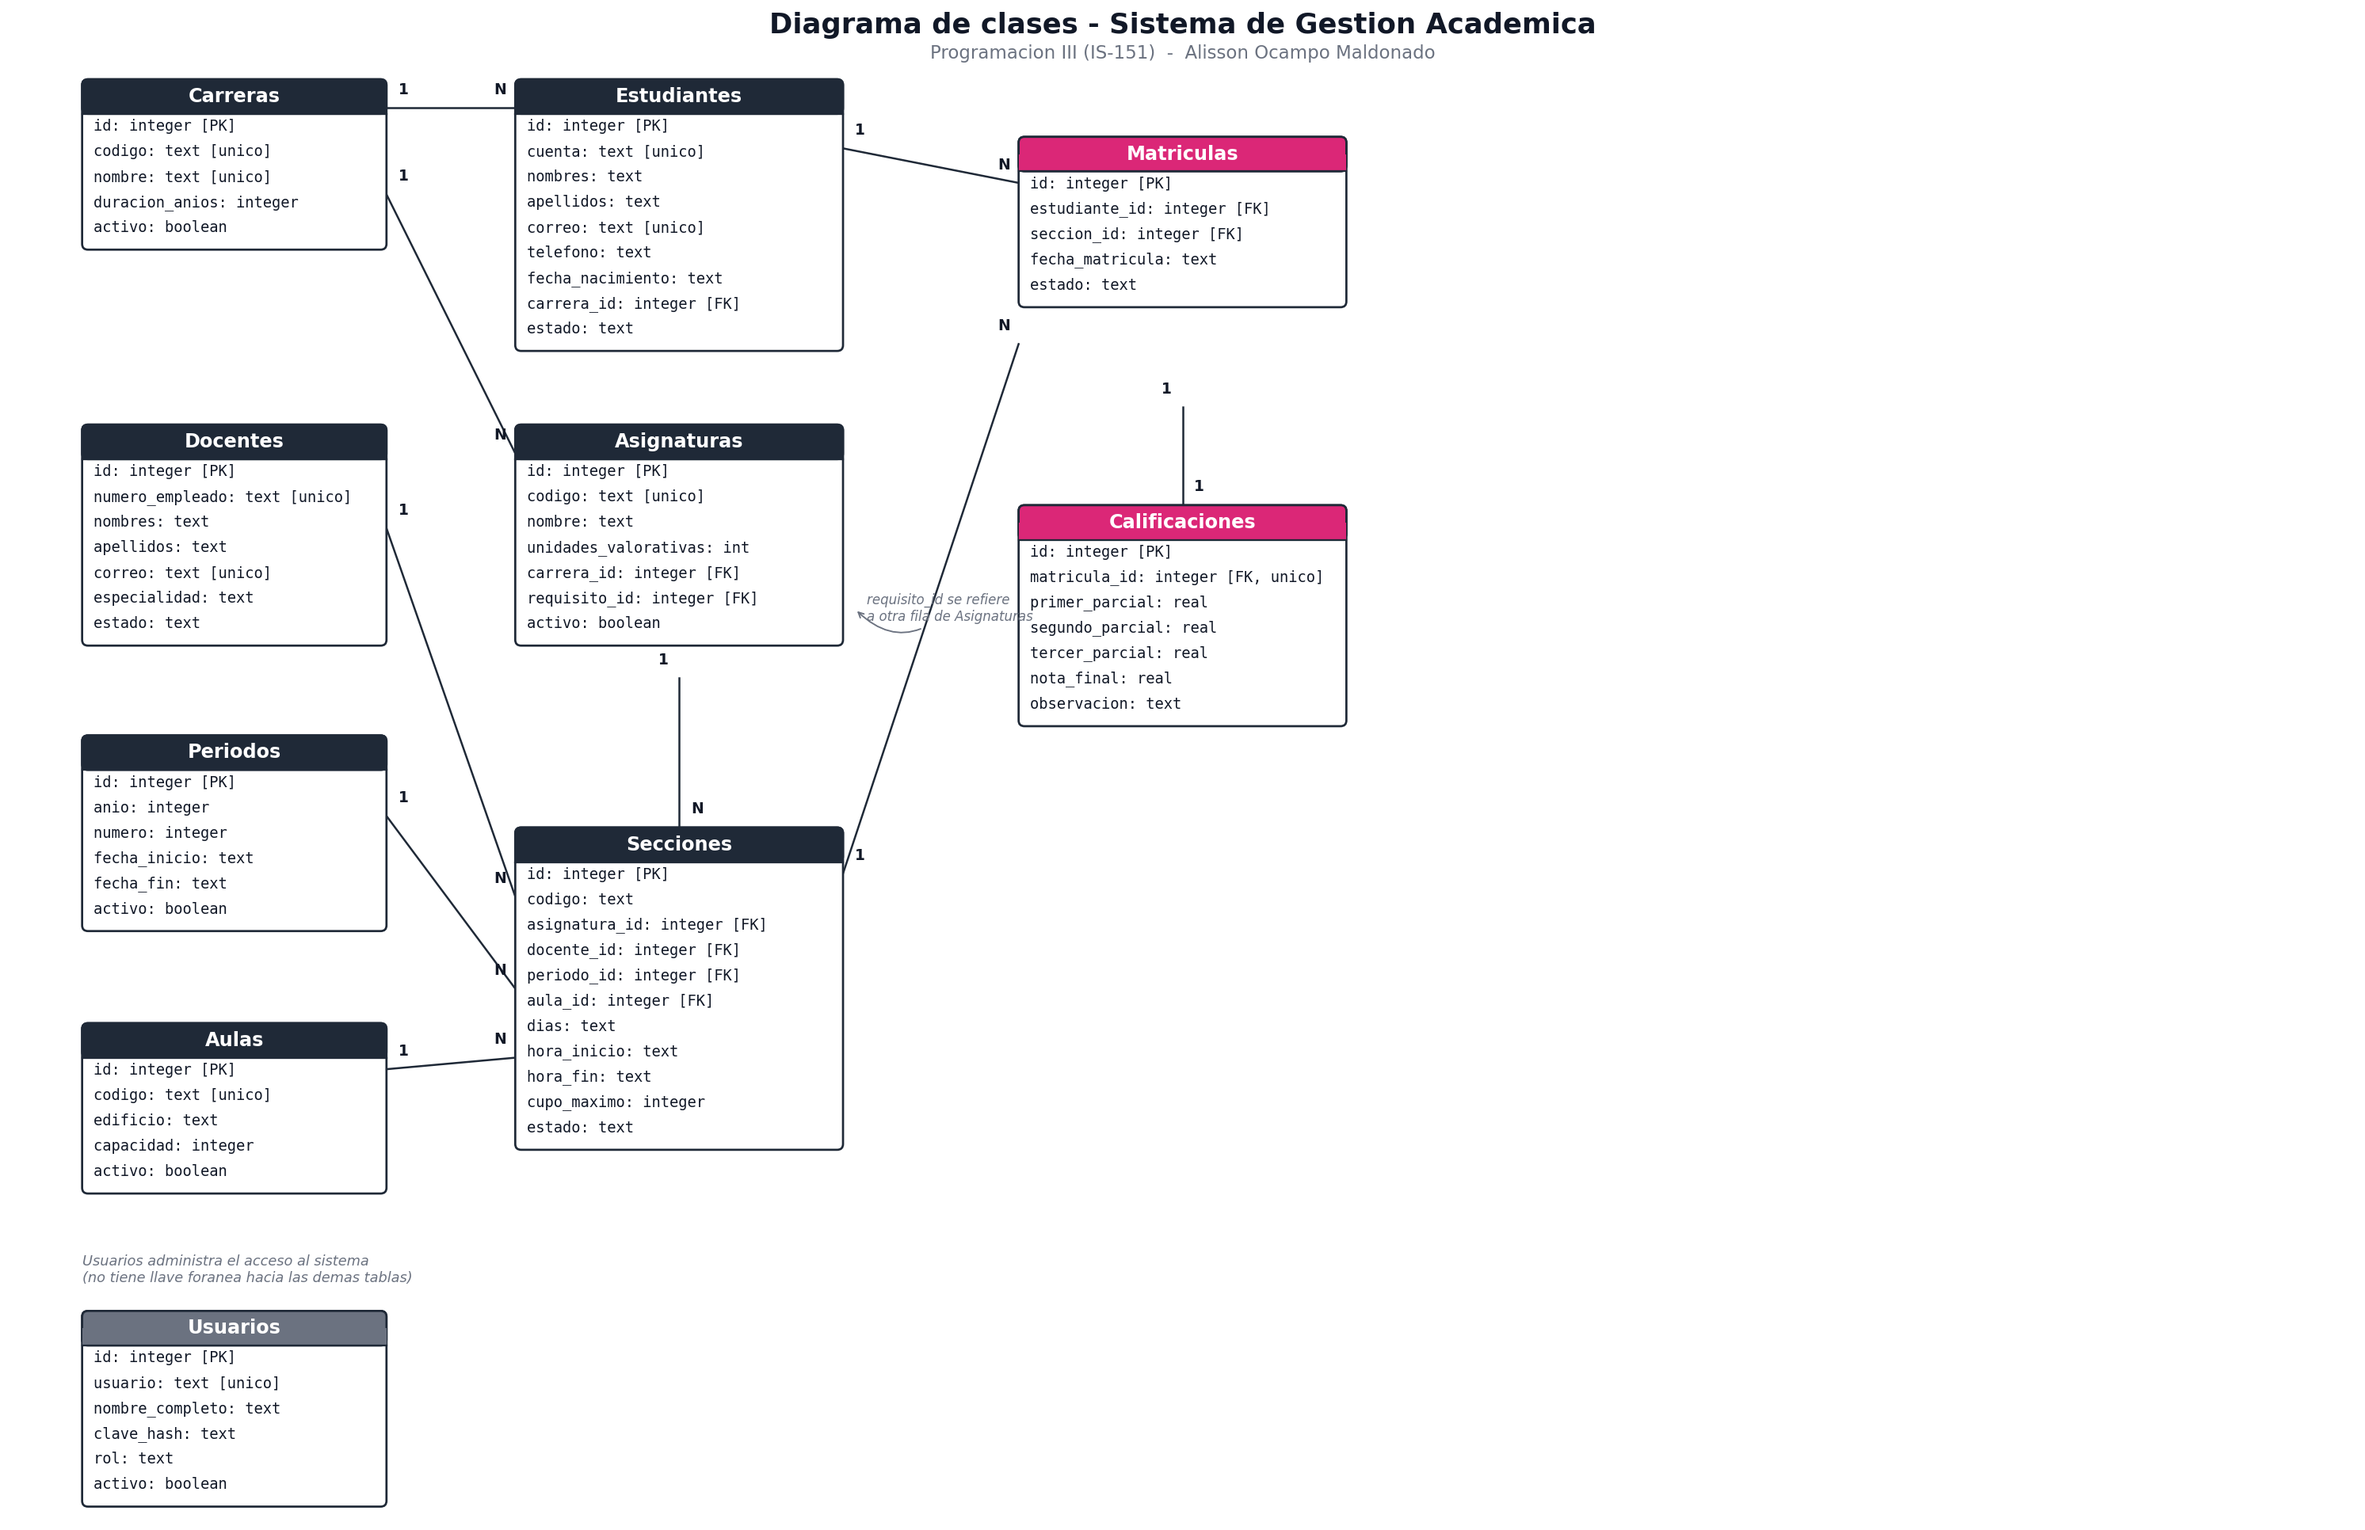
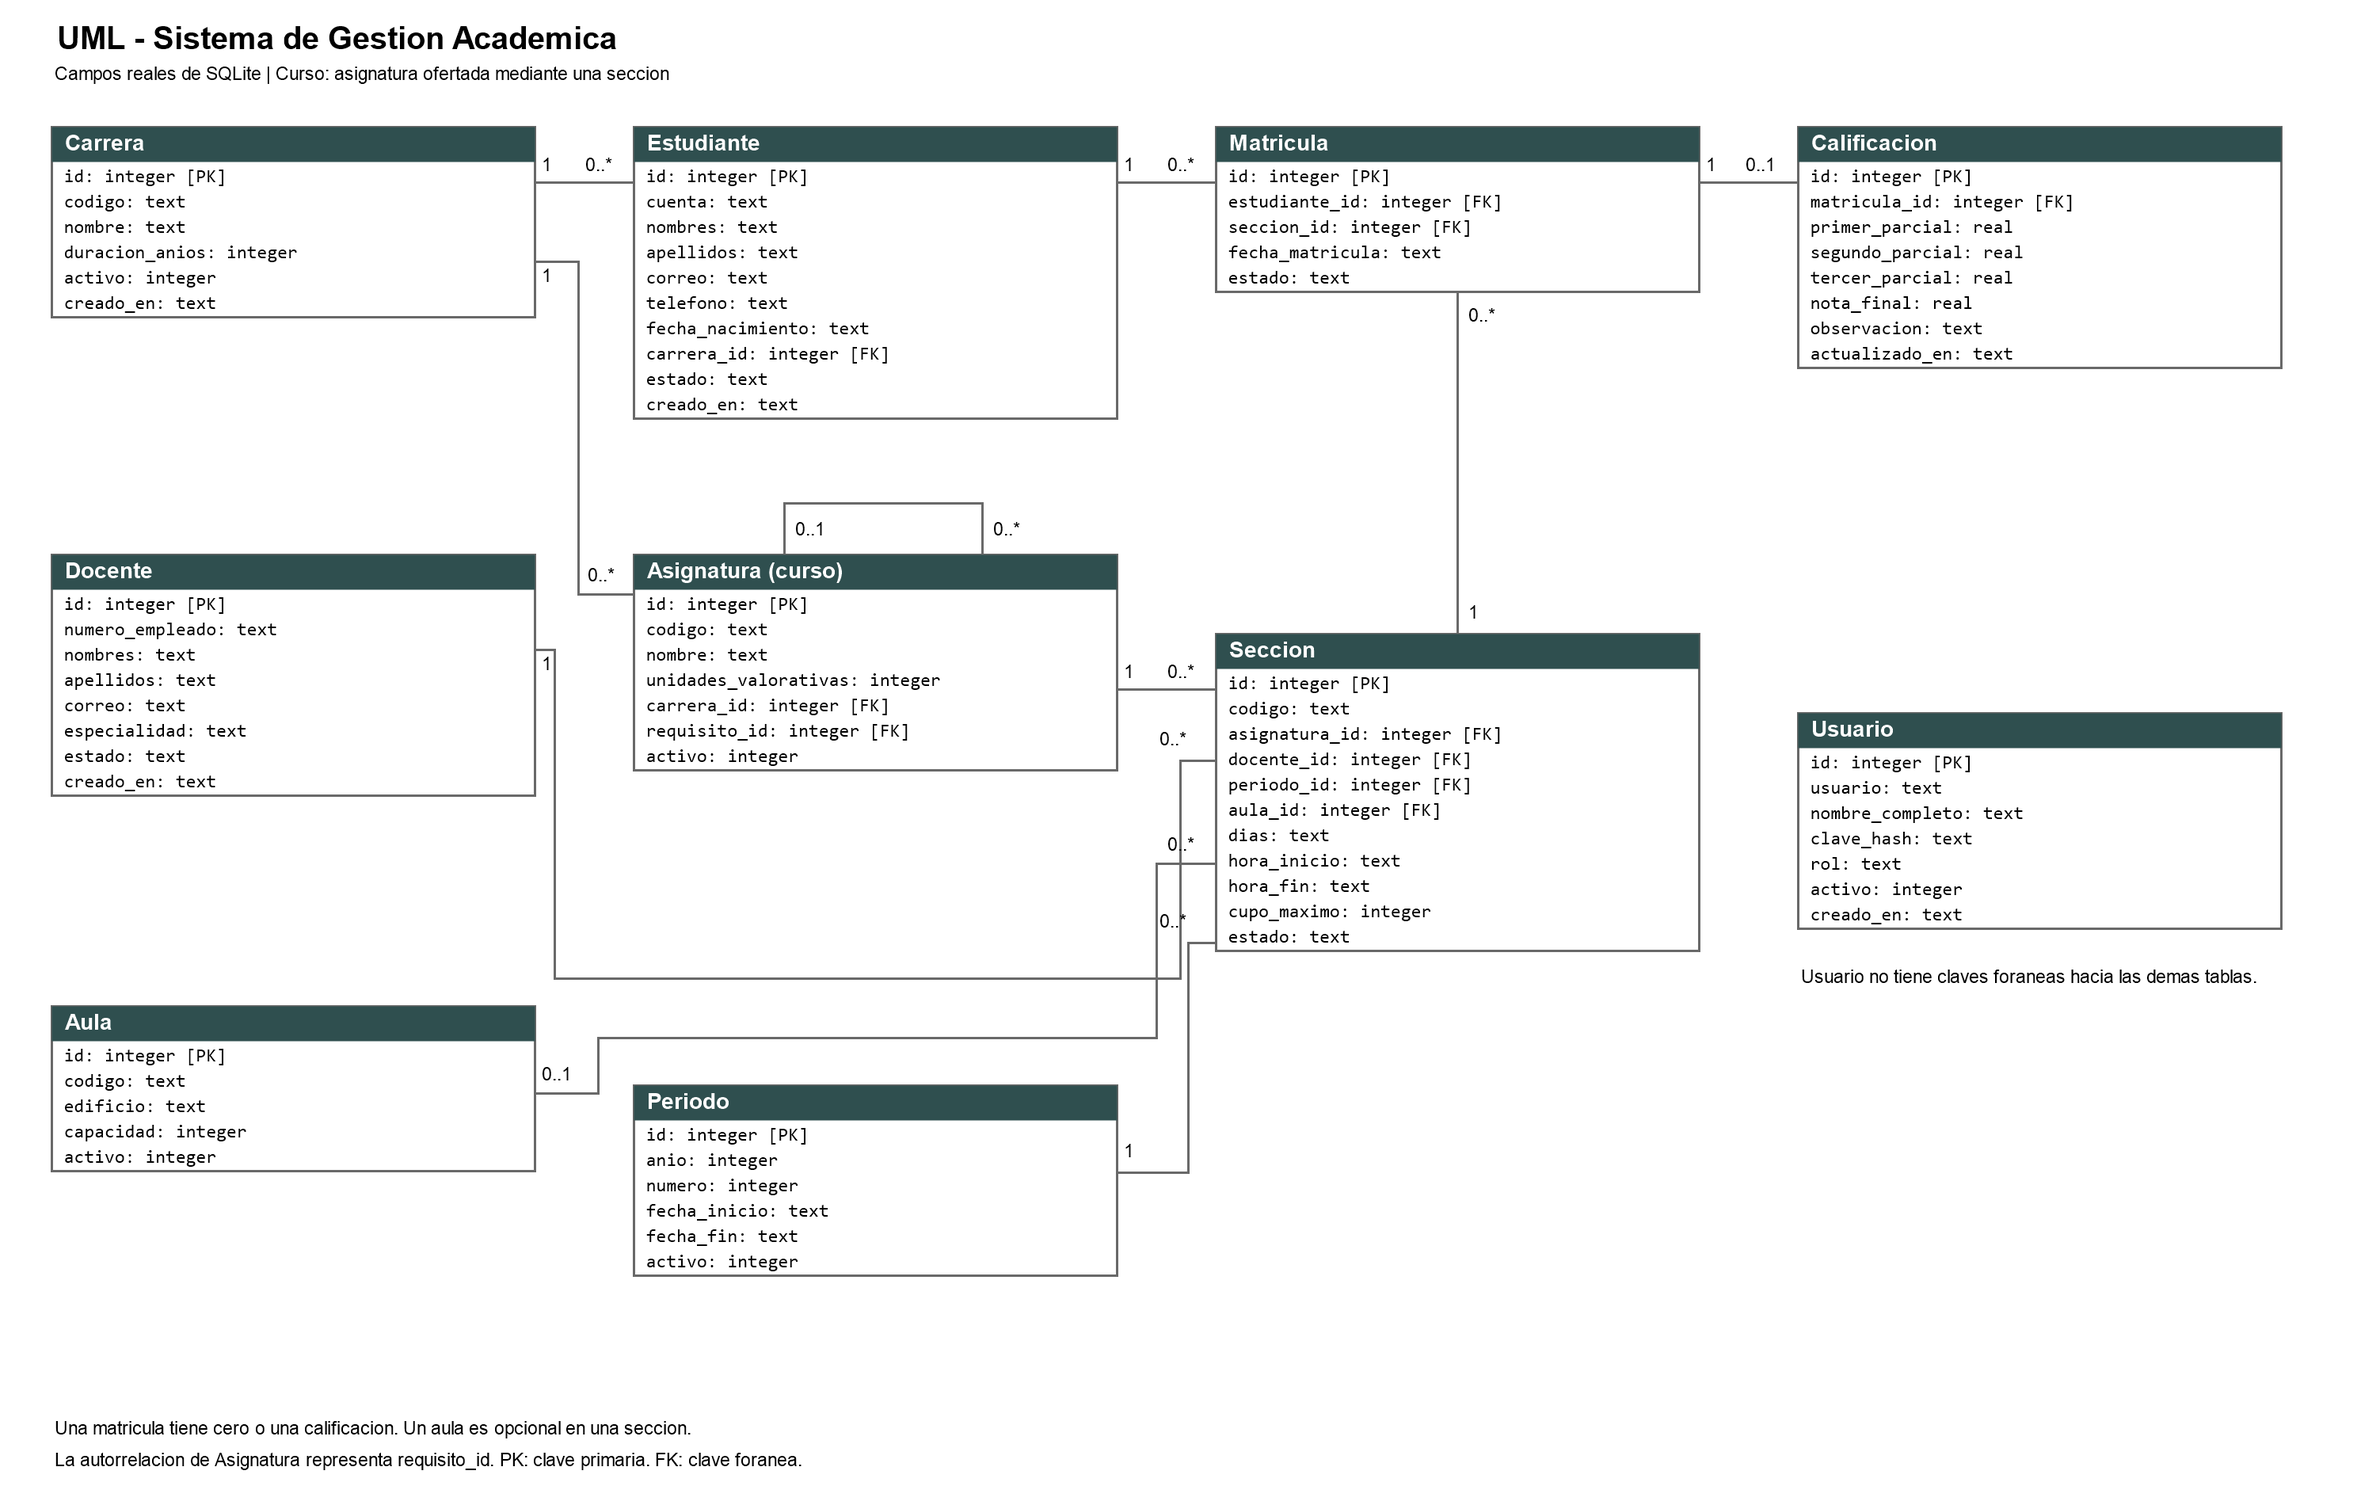
Completar reto de matriculas y entrega modular

diff --git a/app/routers/estudiantes.py b/app/routers/estudiantes.py
@@ -4,7 +4,8 @@ from fastapi import APIRouter, HTTPException, Query, status
 
 from app.database import conexion_lectura, transaccion
 from app.helpers import filas_a_lista, obtener_o_404
-from app.schemas import EstudianteEntrada, EstudianteRespuesta, MensajeRespuesta
+from app.esquemas import EstudianteEntrada, EstudianteRespuesta, MensajeRespuesta, MatriculaRespuesta
+from app.routers.matriculas import CONSULTA_BASE as CONSULTA_MATRICULAS
 
 
 router = APIRouter(prefix="/estudiantes", tags=["Estudiantes"])
@@ -71,6 +72,29 @@ def obtener_estudiante(estudiante_id: int):
     if fila is None:
         raise HTTPException(404, "Estudiante no encontrado")
     return dict(fila)
+
+
+@router.get("/{estudiante_id}/matriculas", response_model=list[MatriculaRespuesta])
+def matriculas_estudiante(estudiante_id: int):
+    """Lista el historial de cursos, incluyendo el estado de cada matricula."""
+    with conexion_lectura() as conexion:
+        obtener_o_404(conexion, "estudiantes", estudiante_id, "Estudiante")
+        filas = conexion.execute(
+            f"{CONSULTA_MATRICULAS} WHERE m.estudiante_id = ? "
+            "ORDER BY p.anio DESC, p.numero DESC, a.codigo, m.id",
+            (estudiante_id,),
+        ).fetchall()
+    return filas_a_lista(filas)
+
+
+# Alias literal del enunciado, ademas de la ruta con prefijo /api/v1.
+reto_router = APIRouter(tags=["Estudiantes"])
+reto_router.add_api_route(
+    "/estudiantes/{estudiante_id}/matriculas",
+    matriculas_estudiante,
+    methods=["GET"],
+    response_model=list[MatriculaRespuesta],
+)
 
 
 @router.post(
@@ -154,4 +178,3 @@ def eliminar_estudiante(estudiante_id: int):
             "No se puede eliminar: el estudiante tiene historial de matrículas. "
             "Puede cambiar su estado a INACTIVO.",
         ) from error
-

diff --git a/tests/test_reto_matriculas.py b/tests/test_reto_matriculas.py
@@ -1,0 +1,34 @@
+import pytest
+
+
+@pytest.mark.parametrize("prefijo", ["", "/api/v1"])
+def test_matriculas_del_estudiante(cliente, prefijo):
+    respuesta = cliente.get(f"{prefijo}/estudiantes/1/matriculas")
+    assert respuesta.status_code == 200
+    filas = respuesta.json()
+    assert {fila["id"] for fila in filas} == {1, 3}
+    assert all(fila["estudiante_id"] == 1 for fila in filas)
+    assert {fila["asignatura_codigo"] for fila in filas} == {"IS-110", "IS-210"}
+    assert filas[0]["periodo_nombre"] == "2026-3"
+
+
+@pytest.mark.parametrize("prefijo", ["", "/api/v1"])
+def test_estudiante_sin_matriculas(cliente, prefijo):
+    respuesta = cliente.get(f"{prefijo}/estudiantes/5/matriculas")
+    assert respuesta.status_code == 200
+    assert respuesta.json() == []
+
+
+@pytest.mark.parametrize("prefijo", ["", "/api/v1"])
+def test_estudiante_inexistente(cliente, prefijo):
+    assert cliente.get(f"{prefijo}/estudiantes/99999/matriculas").status_code == 404
+
+
+def test_cancelacion_conserva_historial(cliente):
+    assert cliente.patch("/api/v1/matriculas/3/cancelar").status_code == 200
+    filas = cliente.get("/api/v1/estudiantes/1/matriculas").json()
+    assert next(fila for fila in filas if fila["id"] == 3)["estado"] == "CANCELADA"
+
+
+def test_id_invalido(cliente):
+    assert cliente.get("/estudiantes/no-es-id/matriculas").status_code == 422

diff --git a/app/main.py b/app/main.py
@@ -5,7 +5,7 @@ from fastapi.middleware.cors import CORSMiddleware
 
 from app.database import inicializar_base_datos
 from app.routers import (
-    asignaturas,
+    cursos,
     auth,
     aulas,
     calificaciones,
@@ -51,7 +51,7 @@ app.include_router(auth.router, prefix=PREFIJO)
 app.include_router(carreras.router, prefix=PREFIJO)
 app.include_router(estudiantes.router, prefix=PREFIJO)
 app.include_router(docentes.router, prefix=PREFIJO)
-app.include_router(asignaturas.router, prefix=PREFIJO)
+app.include_router(cursos.router, prefix=PREFIJO)
 app.include_router(periodos.router, prefix=PREFIJO)
 app.include_router(aulas.router, prefix=PREFIJO)
 app.include_router(secciones.router, prefix=PREFIJO)
@@ -60,6 +60,8 @@ app.include_router(calificaciones.router, prefix=PREFIJO)
 app.include_router(reportes.router, prefix=PREFIJO)
 app.include_router(dashboard.router, prefix=PREFIJO)
 app.include_router(paginas.router)
+
+app.include_router(estudiantes.reto_router)
 
 
 paginas.montar_frontend(app)

diff --git a/app/routers/matriculas.py b/app/routers/matriculas.py
@@ -2,7 +2,7 @@ from fastapi import APIRouter, HTTPException, Query, status
 
 from app.database import conexion_lectura, transaccion
 from app.helpers import filas_a_lista, obtener_o_404
-from app.schemas import MatriculaEntrada, MatriculaRespuesta, MensajeRespuesta
+from app.esquemas import MatriculaEntrada, MatriculaRespuesta, MensajeRespuesta
 from app.services.matricula_service import validar_nueva_matricula
 
 
@@ -136,4 +136,3 @@ def eliminar_matricula(matricula_id: int):
         obtener_o_404(conexion, "matriculas", matricula_id, "Matrícula")
         conexion.execute("DELETE FROM matriculas WHERE id = ?", (matricula_id,))
     return {"mensaje": "Matrícula y su calificación fueron eliminadas"}
-

diff --git a/app/routers/cursos.py b/app/routers/cursos.py
@@ -1,10 +1,12 @@
+"""CRUD de cursos, llamados asignaturas en esta base de datos."""
+
 import sqlite3
 
 from fastapi import APIRouter, HTTPException, Query, status
 
 from app.database import conexion_lectura, transaccion
 from app.helpers import filas_a_lista, obtener_o_404
-from app.schemas import AsignaturaEntrada, AsignaturaRespuesta, MensajeRespuesta
+from app.esquemas import AsignaturaEntrada, AsignaturaRespuesta, MensajeRespuesta
 
 
 router = APIRouter(prefix="/asignaturas", tags=["Asignaturas"])
@@ -167,4 +169,3 @@ def eliminar_asignatura(asignatura_id: int):
         raise HTTPException(
             409, "No se puede eliminar: la asignatura tiene secciones"
         ) from error
-

diff --git a/app/routers/aulas.py b/app/routers/aulas.py
@@ -4,7 +4,7 @@ from fastapi import APIRouter, HTTPException, status
 
 from app.database import conexion_lectura, transaccion
 from app.helpers import filas_a_lista, obtener_o_404
-from app.schemas import AulaEntrada, AulaRespuesta, MensajeRespuesta
+from app.esquemas import AulaEntrada, AulaRespuesta, MensajeRespuesta
 
 
 router = APIRouter(prefix="/aulas", tags=["Aulas"])
@@ -81,4 +81,3 @@ def eliminar_aula(aula_id: int):
         # ON DELETE SET NULL permite conservar la sección aunque desaparezca el aula.
         conexion.execute("DELETE FROM aulas WHERE id = ?", (aula_id,))
     return {"mensaje": "Aula eliminada; sus secciones quedaron sin aula asignada"}
-

diff --git a/app/routers/secciones.py b/app/routers/secciones.py
@@ -4,7 +4,7 @@ from fastapi import APIRouter, HTTPException, Query, status
 
 from app.database import conexion_lectura, transaccion
 from app.helpers import filas_a_lista, obtener_o_404
-from app.schemas import MensajeRespuesta, SeccionEntrada, SeccionRespuesta
+from app.esquemas import MensajeRespuesta, SeccionEntrada, SeccionRespuesta
 from app.services.horarios import validar_choques_seccion
 
 
@@ -230,4 +230,3 @@ def eliminar_seccion(seccion_id: int):
         raise HTTPException(
             409, "No se puede eliminar: la sección tiene estudiantes matriculados"
         ) from error
-

diff --git a/app/routers/carreras.py b/app/routers/carreras.py
@@ -4,7 +4,7 @@ from fastapi import APIRouter, HTTPException, Query, status
 
 from app.database import conexion_lectura, transaccion
 from app.helpers import filas_a_lista, obtener_o_404
-from app.schemas import CarreraEntrada, CarreraRespuesta, MensajeRespuesta
+from app.esquemas import CarreraEntrada, CarreraRespuesta, MensajeRespuesta
 
 
 router = APIRouter(prefix="/carreras", tags=["Carreras"])
@@ -98,4 +98,3 @@ def eliminar_carrera(carrera_id: int):
         raise HTTPException(
             409, "No se puede eliminar: la carrera tiene estudiantes o asignaturas"
         ) from error
-

diff --git a/app/routers/docentes.py b/app/routers/docentes.py
@@ -4,7 +4,7 @@ from fastapi import APIRouter, HTTPException, Query, status
 
 from app.database import conexion_lectura, transaccion
 from app.helpers import filas_a_lista, obtener_o_404
-from app.schemas import DocenteEntrada, DocenteRespuesta, MensajeRespuesta
+from app.esquemas import DocenteEntrada, DocenteRespuesta, MensajeRespuesta
 
 
 router = APIRouter(prefix="/docentes", tags=["Docentes"])
@@ -120,4 +120,3 @@ def eliminar_docente(docente_id: int):
         raise HTTPException(
             409, "No se puede eliminar: el docente tiene secciones asignadas"
         ) from error
-

diff --git a/app/routers/periodos.py b/app/routers/periodos.py
@@ -4,7 +4,7 @@ from fastapi import APIRouter, HTTPException, status
 
 from app.database import conexion_lectura, transaccion
 from app.helpers import obtener_o_404
-from app.schemas import MensajeRespuesta, PeriodoEntrada, PeriodoRespuesta
+from app.esquemas import MensajeRespuesta, PeriodoEntrada, PeriodoRespuesta
 
 
 router = APIRouter(prefix="/periodos", tags=["Períodos académicos"])
@@ -108,4 +108,3 @@ def eliminar_periodo(periodo_id: int):
         raise HTTPException(
             409, "No se puede eliminar: el período tiene secciones"
         ) from error
-

diff --git a/app/routers/calificaciones.py b/app/routers/calificaciones.py
@@ -2,7 +2,7 @@ from fastapi import APIRouter, HTTPException, Query, status
 
 from app.database import conexion_lectura, transaccion
 from app.helpers import filas_a_lista, obtener_o_404
-from app.schemas import (
+from app.esquemas import (
     CalificacionEntrada,
     CalificacionRespuesta,
     MensajeRespuesta,
@@ -136,4 +136,3 @@ def eliminar_calificacion(matricula_id: int):
             (matricula_id,),
         )
     return {"mensaje": "Calificación eliminada y matrícula reabierta"}
-

diff --git a/app/routers/auth.py b/app/routers/auth.py
@@ -2,7 +2,7 @@ from fastapi import APIRouter, HTTPException
 
 from app.database import conexion_lectura
 from app.seguridad import hash_clave
-from app.schemas import UsuarioLogin, UsuarioRespuesta
+from app.esquemas import UsuarioLogin, UsuarioRespuesta
 
 
 router = APIRouter(prefix="/auth", tags=["Autenticación"])
